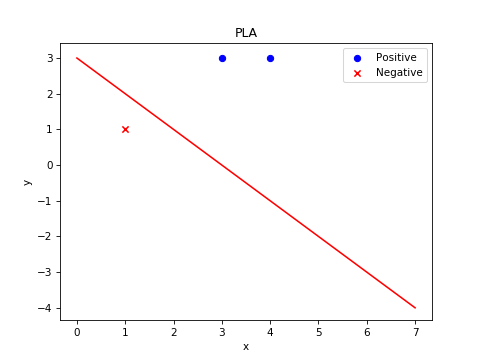
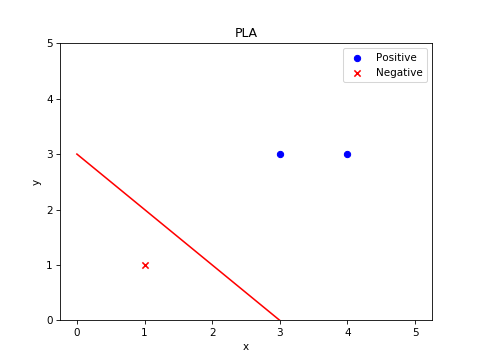
更新

diff --git a/pla/self_pla.py b/pla/self_pla.py
@@ -74,13 +74,14 @@ print(pt)
 
 
 # 可视化
-x = np.linspace(0, 7, 200)
+x = np.linspace(0, 5, 200)
 # 最终的函数表达式为w[0][0]*x+w[1][0]*y=0,推导后就是下面的式子
 y = (-b - w[0][0] * x) / w[1][0]
 plt.plot(x, y, color='r')
 plt.scatter(X[:2, 0], X[:2, 1], color='blue', marker='o', label='Positive')
 plt.scatter(X[2:, 0], X[2:, 1], color='red', marker='x', label='Negative')
 plt.xlabel('x')
+plt.ylim(0,5)
 plt.ylabel('y')
 plt.legend()
 plt.title('PLA')

diff --git a/pla/readme.md b/pla/readme.md
@@ -1,5 +1,5 @@
 
-![](http://p20tr36iw.bkt.clouddn.com/pla.png)
+![](http://p20tr36iw.bkt.clouddn.com/pla1.png)
 
 
 # 可视化PLA算法
@@ -130,7 +130,7 @@ plt.savefig('pla.png', dpi=75)
 plt.show()
 ```
 
-![](http://p20tr36iw.bkt.clouddn.com/pla.png)
+![](http://p20tr36iw.bkt.clouddn.com/pla1.png)
 
 
 ## 2.作者的话
